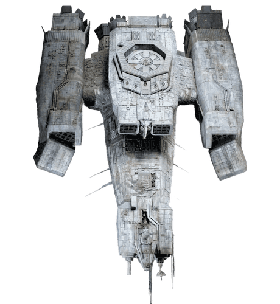
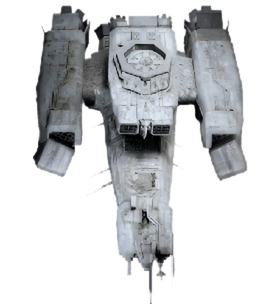
update uniques

diff --git a/myplugins/uniques/README.md b/myplugins/uniques/README.md
@@ -57,6 +57,11 @@ In the rootfoldet of this plugin you can find the file "plugin re-shroud.txt" to
 <br>
 Changelog:<br>
 <br>
+2026-04-28<br>
+fixed lone pixel errors for some ship images<br>
+fixed changed korsmanath outfit space<br>
+fixed new 0.11.1 plural definition errors<br>
+<br>
 2025-10-07<br>
 added derelict scanner Korsmanath story (by Lunella)<br>
 <br>
